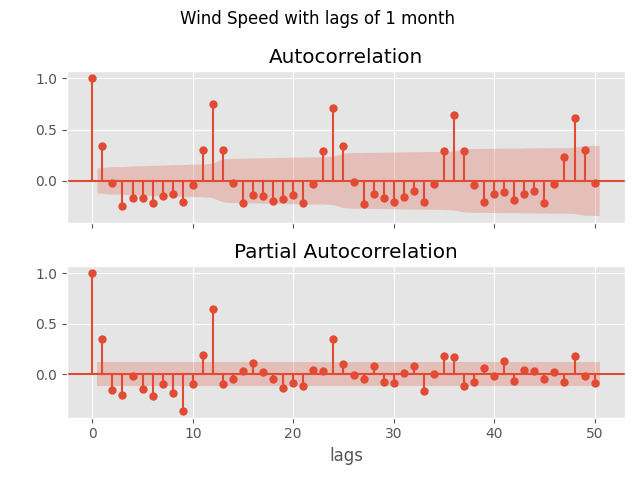
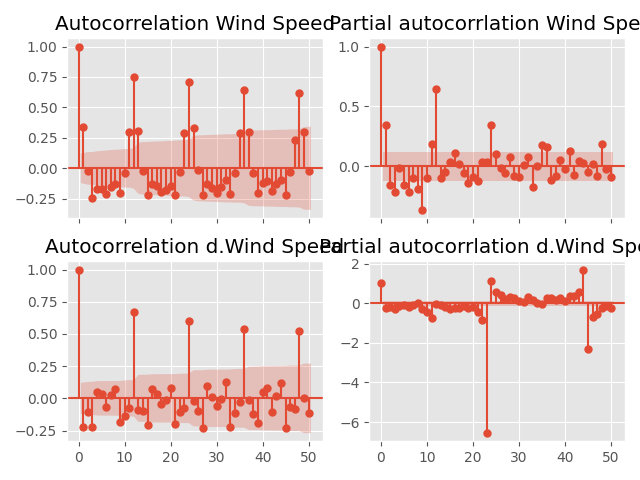
Autocorrelation plots to include first derivative

diff --git a/Code/Autocorrelation.py b/Code/Autocorrelation.py
@@ -41,18 +41,19 @@ LonLatValues=New_DF["LonLat"].unique().tolist()
 
 #Autocorrelation
 series=New_DF[New_DF["LonLat"]==LonLatValues[LonLatNum]][Variables_ToPlot[VarNum]]
-series2=New_DF[New_DF["LonLat"]==LonLatValues[LonLatNum]][Variables_ToPlot[VarNum]].diff()
-fig,(axes1,axes2,axes3,axes4)=plt.subplots(2,2,sharex=True)
-axes2.set_xlabel("lags")
+series2=New_DF[New_DF["LonLat"]==LonLatValues[LonLatNum]][Variables_ToPlot[VarNum]].diff()[1:]
+fig,axes1=plt.subplots(2,2,sharex=True)
+axes=axes1.flatten()
+# axes2.set_xlabel("lags")
 # print(type(LonLatValues[LonLatNum]))
 # plt.suptitle(Variables_ToPlot[VarNum]+" with lags of 1 month ")
 # plt.suptitle(Variables_ToPlot[VarNum]+" with lags of 1 month "+" at location {}".format(str(LonLatValues[LonLatNum])))
 
 # autocorrelation_plot(series)
-plot_acf(series,lags=50,ax=axes1,title="Autocorrelation "+Variables_ToPlot[VarNum])
-plot_pacf(series,lags=50,ax=axes2,title="Partial autocorrlation "+Variables_ToPlot[VarNum])
-plot_acf(series2,lags=50,ax=axes3,title="Autocorrelation d."+Variables_ToPlot[VarNum])
-plot_pacf(series2,lags=50,ax=axes4,title="Partial autocorrlation d."+Variables_ToPlot[VarNum])
+plot_acf(series,lags=50,ax=axes[0],title="ACF "+Variables_ToPlot[VarNum])
+plot_pacf(series,lags=50,ax=axes[1],title="PACF "+Variables_ToPlot[VarNum])
+plot_acf(series2,lags=50,ax=axes[2],title="ACF d."+Variables_ToPlot[VarNum])
+plot_pacf(series2,lags=50,ax=axes[3],title="PACF d."+Variables_ToPlot[VarNum])
 plt.tight_layout()
 ts2=datetime.datetime.now().timestamp()
 plt.savefig(Export_path+"Autocorrelation/"+Variables_ToPlot[VarNum]+"_PACF_ACF.png") 
